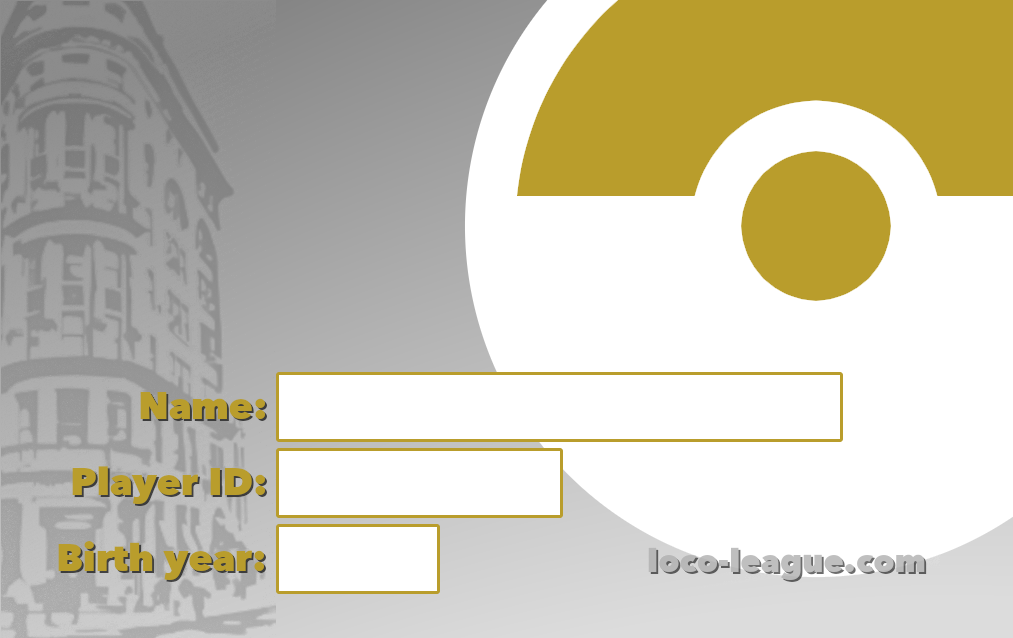
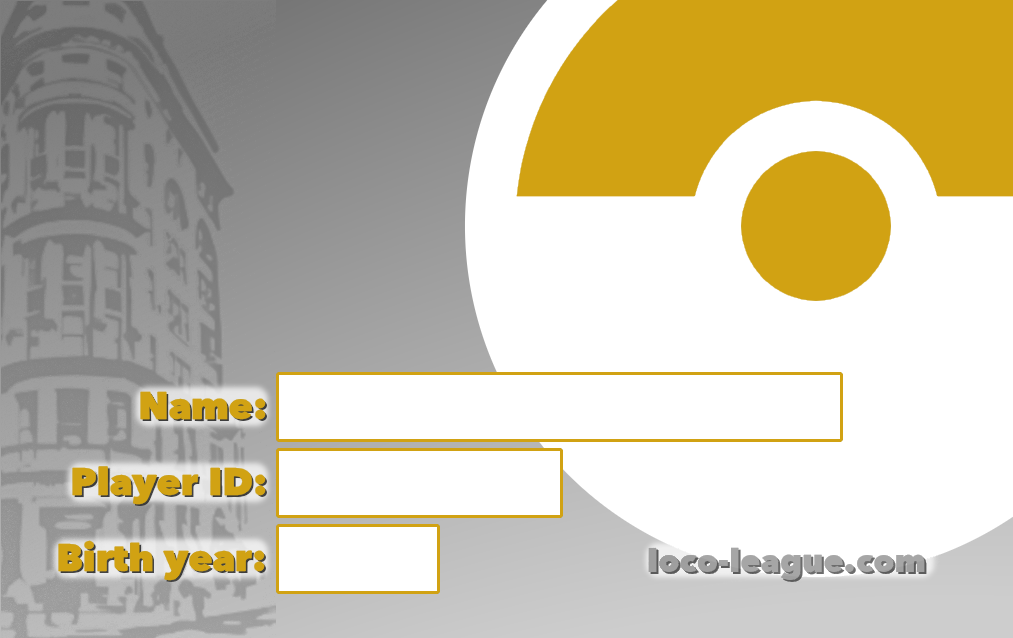
New Trainer Card artwork, and the rank lines in its brighter gold
The template was redrawn in colour only: the gold went from #b99d2c to
#d1a213 and the grey darkened a little. The circle, the three boxes and
the band were checked pixel for pixel and did not move, so every
measurement stands. The League and rank lines, the Champion star and the
fallback badge fill are written in the artwork's gold and follow it.

diff --git a/styles.css b/styles.css
@@ -3020,9 +3020,11 @@ h1.event-name + .event-when {
 }
 
 /* The gold and the shadow are sampled from the labels already drawn on the
-   template -- #b99d2c is the exact colour of "Name:" -- so the two lines read
+   template -- #d1a213 is the exact colour of "Name:" -- so the two lines read
    as part of the card rather than as something typed over it. Slightly larger
-   than those labels, which measure about 9.2pt on this card. */
+   than those labels, which measure about 9.2pt on this card. The artwork's
+   gold was #b99d2c until it was redrawn brighter; change the art and this
+   is re-sampled with it, or the two lines stop matching the labels. */
 .tcard-league,
 .tcard-rank {
   margin: 0;
@@ -3031,7 +3033,7 @@ h1.event-name + .event-when {
   font-weight: 700;
   line-height: 1.05;
   letter-spacing: 0.01em;
-  color: #b99d2c;
+  color: #d1a213;
   text-shadow: 0.6pt 0.6pt 0 rgba(0, 0, 0, 0.45);
   white-space: nowrap;
 }
@@ -3074,7 +3076,7 @@ h1.event-name + .event-when {
   width: var(--size, 8pt);
   height: var(--size, 8pt);
   transform: translate(-50%, -50%);
-  background-color: var(--fill, #b99d2c);
+  background-color: var(--fill, #d1a213);
   -webkit-mask-image: var(--art);
   mask-image: var(--art);
   -webkit-mask-size: contain;

diff --git a/admin/trainer-card-art.js b/admin/trainer-card-art.js
@@ -94,8 +94,9 @@ function badgeDot(badge, index, place) {
 // A Champion's star, on the white directly below the gold band and in from the
 // right edge. Drawn rather than typed: a star glyph is whatever shape the
 // reading font happens to have, and there are no web fonts here. The gold is
-// #b99d2c, sampled from the band itself, so it is the card's own gold and not
-// an approximation of it.
+// #d1a213, sampled from the band itself, so it is the card's own gold and not
+// an approximation of it -- and it moves when the artwork does, as it did when
+// the band went from #b99d2c to this.
 const STAR_POINTS = '50.00,0.00 61.23,34.55 97.55,34.55 68.17,55.90 79.39,90.45 '
   + '50.00,69.10 20.61,90.45 31.83,55.90 2.45,34.55 38.77,34.55';
 
@@ -103,7 +104,7 @@ export function championStar() {
   return el('div', {
     className: 'tcard-star',
     html: '<svg viewBox="0 0 100 100" aria-hidden="true" focusable="false">'
-        + `<polygon points="${STAR_POINTS}" fill="#b99d2c"/></svg>`
+        + `<polygon points="${STAR_POINTS}" fill="#d1a213"/></svg>`
   });
 }
 

diff --git a/CLAUDE.md b/CLAUDE.md
@@ -1175,11 +1175,18 @@ makes the file.
   loyalty and registration sheets keep theirs.
 - **The page box is a NAMED page**, `@page trainer-cards`. A bare `@page` with
   no margin would strip the margins off every other printable page too.
+- **The artwork was redrawn once, in colour only.** The gold went from
+  `#b99d2c` to a brighter `#d1a213` and the grey behind it darkened slightly;
+  the circle, the boxes and the band were checked pixel for pixel and did not
+  move, so every measurement here still holds. Three things are written in the
+  artwork's gold and changed with it: the "League" and rank lines, the
+  Champion star, and the fallback badge fill. A replacement that moves a shape
+  needs re-measuring, which is what the edge check is for -- not a glance.
 - **A Champion gets a gold star**, on the white below the gold band and in from
   the right edge, about a fifth taller than a field box and dropped by its own
   height so it sits clear of the band. It is drawn as an SVG polygon rather than typed
   as a star glyph: there are no web fonts here, so a glyph would be whatever
-  shape the reading font happens to carry. The gold is `#b99d2c`, sampled from
+  shape the reading font happens to carry. The gold is `#d1a213`, sampled from
   the band itself. Its shadow is a `drop-shadow`, which follows the polygon,
   rather than a `box-shadow`, which would outline the square the star is drawn
   in — and it is **darker than the two text lines use**, because those sit on

diff --git a/README.md b/README.md
@@ -1397,7 +1397,7 @@ those sit on the grey building, the star sits on white, and the same alpha washe
 out there. The artwork's own label shadow averages (86, 83, 72); 0.65 black over
 white renders (89, 89, 89). It is an SVG polygon
 rather than a star glyph, because there are no web fonts here and a glyph is
-whatever shape the reading font happens to carry; the gold is `#b99d2c`, sampled
+whatever shape the reading font happens to carry; the gold is `#d1a213`, sampled
 off the band. Which rank earns it comes from `requires_elite_four` on
 `trainer_card_ranks` rather than from matching the word "Champion".
 
